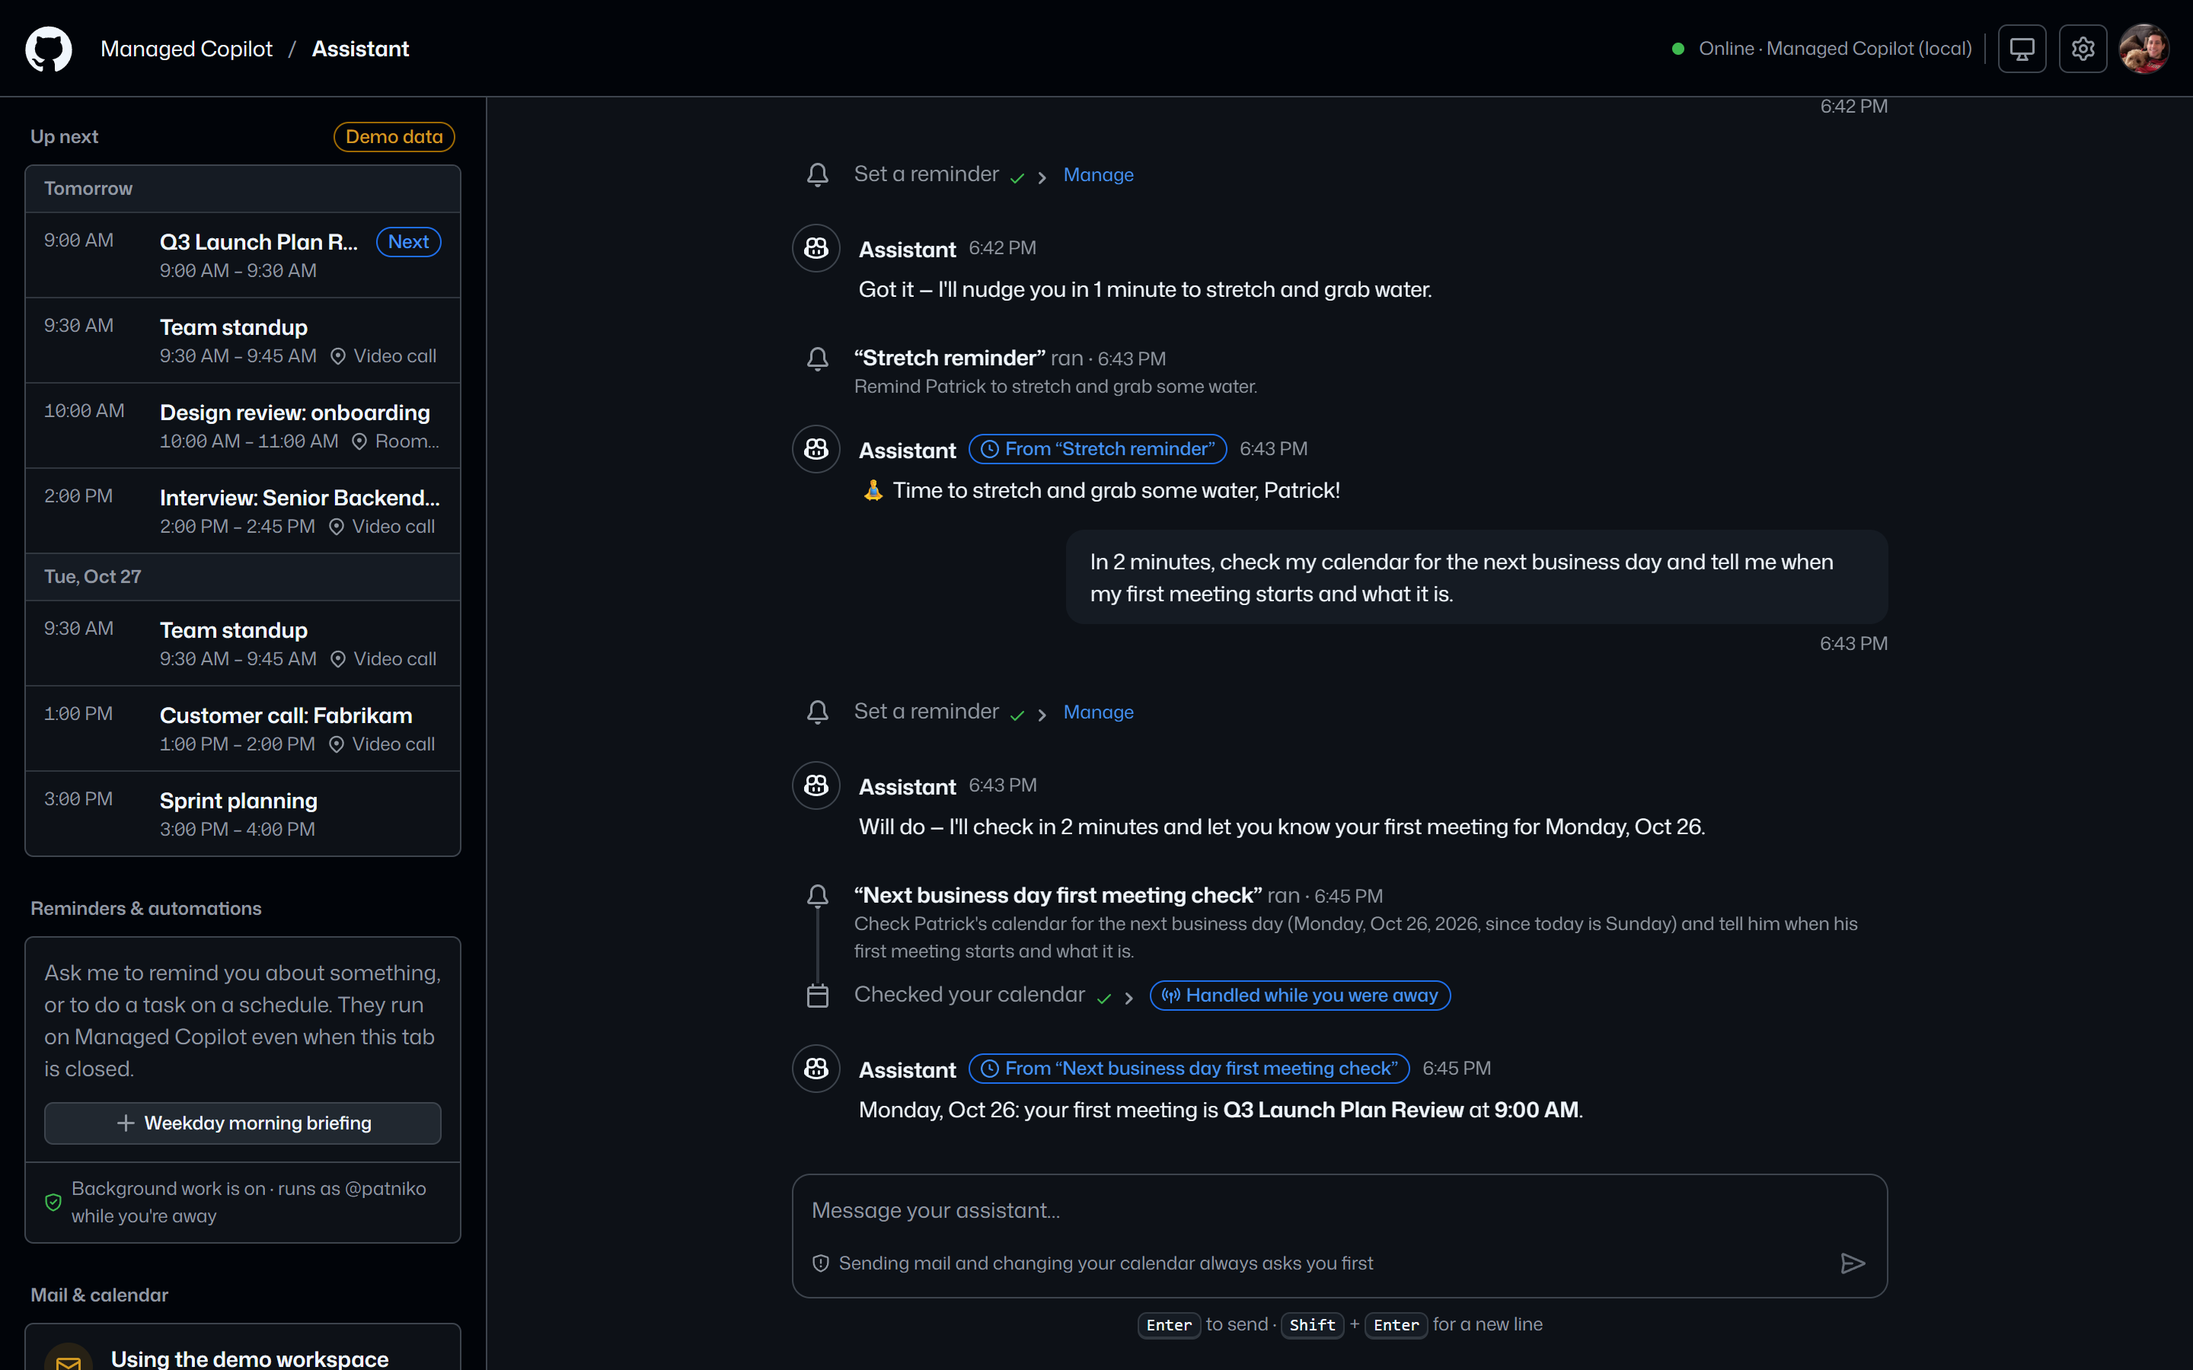
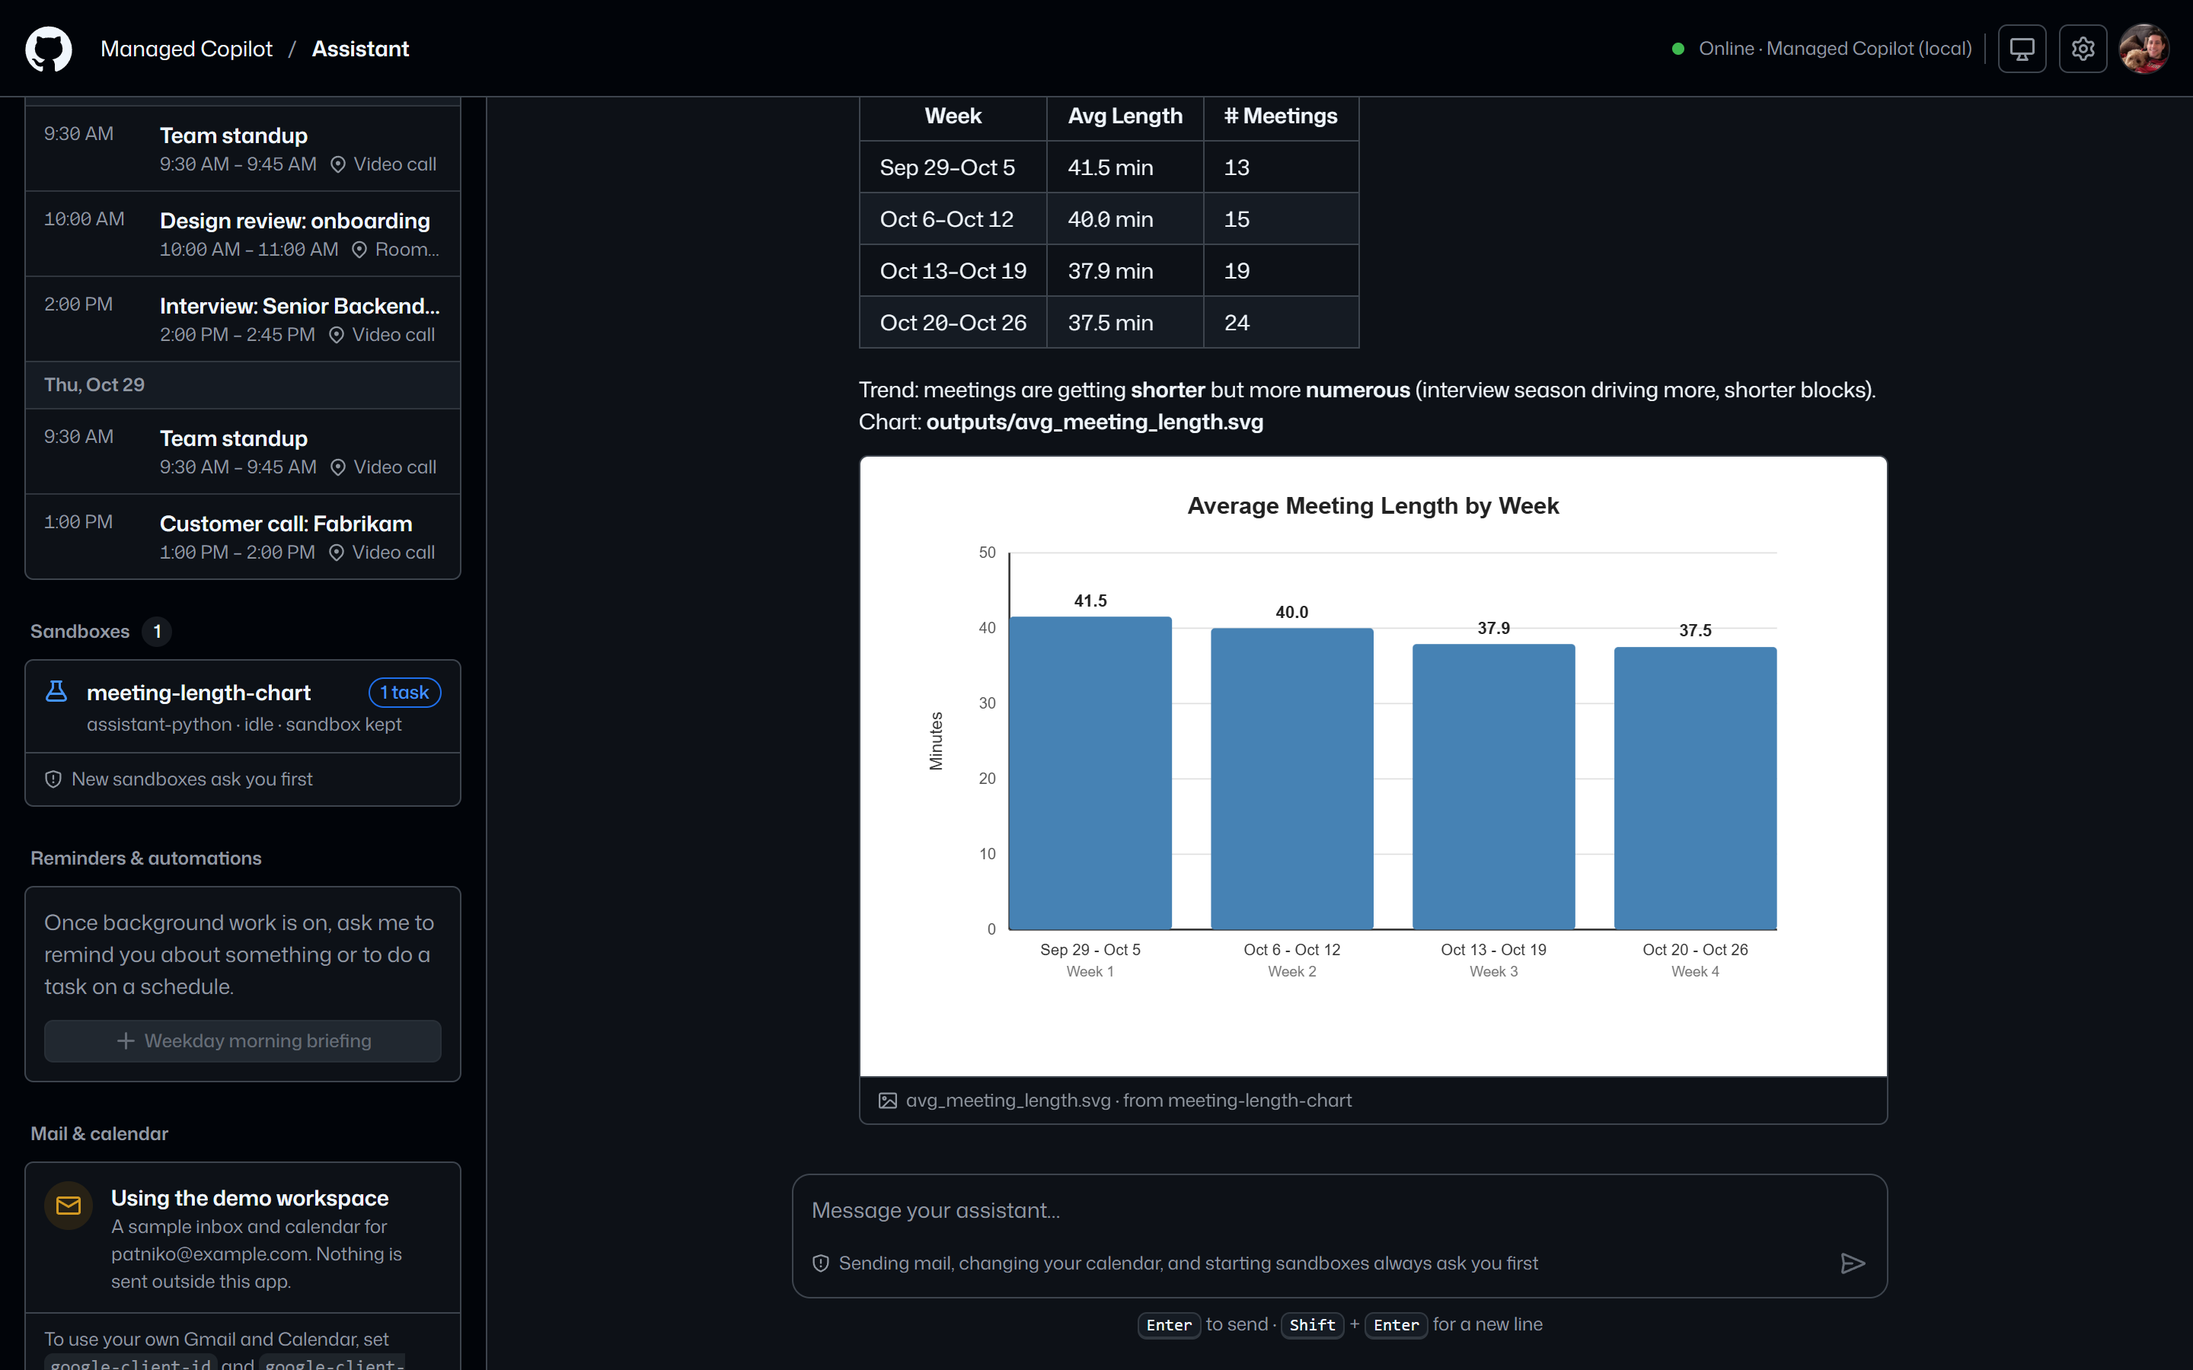
assistant: show a sandbox's images under the reply that answers with them
A question asked while a sandbox works (sent with mode immediate) starts a new
segment of the chat, so attaching images to the last reply of the turn that
started the sandbox missed the final answer (seen live). Each image now goes
under the first reply written after it was published that names the file,
else the first reply written after it was published; replies written while the
sandbox worked never take it. Dark and mobile screenshots from that live run.

The scripted path opens the app while an earlier turn may still be running.

Changed region(s): [[0.3438, 0.0622, 0.875, 0.84], [0.0, 0.0622, 0.2188, 1.0], [0.4375, 0.9022, 0.6875, 0.9333]]

diff --git a/demos/assistant/test/sandbox-cards.test.ts b/demos/assistant/test/sandbox-cards.test.ts
@@ -1,6 +1,6 @@
 import { describe, expect, it } from "vitest";
 import type { ApprovalItem, AssistantItem, SandboxesView, SandboxOutputView, SandboxWorkerView, TimelineItem, UserItem, WorkerItem } from "../src/shared/protocol.js";
-import { formatElapsed, sandboxCardStates } from "../src/web/src/sandboxCards.js";
+import { formatElapsed, replyImages, sandboxCardStates } from "../src/web/src/sandboxCards.js";
 import { buildBlocks, type Block } from "../src/web/src/timelineBlocks.js";
 
 const T0 = Date.parse("2027-01-15T22:00:00Z");
@@ -96,14 +96,13 @@ describe("sandboxCardStates", () => {
   });
 });
 
-/** A compact picture of the blocks, like ["user:u1", "worker:c1", "assistant:a1+c1"]. */
+/** A compact picture of the blocks, like ["user:u1", "worker:c1(approved)", "assistant:a1"]. */
 function shape(blocks: readonly Block[]): string[] {
   return blocks
     .filter((block) => block.type === "item" || block.type === "unread")
     .map((block) => {
       if (block.type !== "item") return "unread";
-      const extra = block.item.kind === "assistant" && block.sandboxCards ? `+${block.sandboxCards.map((entry) => entry.id).join(",")}` : block.item.kind === "worker" && block.approval ? `(approved)` : "";
-      return `${block.item.kind}:${block.item.id}${extra}`;
+      return `${block.item.kind}:${block.item.id}${block.item.kind === "worker" && block.approval ? "(approved)" : ""}`;
     });
 }
 
@@ -111,19 +110,47 @@ describe("buildBlocks with sandboxes", () => {
   const build = (items: TimelineItem[], unreadAnchor?: string) => shape(buildBlocks(items, "America/Los_Angeles", unreadAnchor, new Date(T0)));
 
   it("shows an approved sandbox as its card, and one waiting for approval as the approval", () => {
-    expect(build([user("u1", 0), card("c1", 1), approval("c1", 2, "approved"), reply("a1", 30)])).toEqual(["user:u1", "worker:c1(approved)", "assistant:a1+c1"]);
+    expect(build([user("u1", 0), card("c1", 1), approval("c1", 2, "approved"), reply("a1", 30)])).toEqual(["user:u1", "worker:c1(approved)", "assistant:a1"]);
     expect(build([user("u1", 0), card("c1", 1, { status: "running", endedAt: undefined }), approval("c1", 2, "pending")])).toEqual(["user:u1", "approval:approval:c1"]);
     expect(build([user("u1", 0), card("c1", 1, { status: "failed" }), approval("c1", 2, "denied"), reply("a1", 5)])).toEqual(["user:u1", "approval:approval:c1", "assistant:a1"]);
   });
 
-  it("puts a turn's sandbox images under its last reply only", () => {
-    const followUp = card("c2", 41, { action: "message" });
-    expect(
-      build([user("u1", 0), reply("a0", 1), card("c1", 2), approval("c1", 3, "approved"), reply("a1", 30), reply("a2", 31), user("u2", 40), followUp, reply("a3", 60), user("u3", 70), reply("a4", 71)]),
-    ).toEqual(["user:u1", "assistant:a0", "worker:c1(approved)", "assistant:a1", "assistant:a2+c1", "user:u2", "worker:c2", "assistant:a3+c2", "user:u3", "assistant:a4"]);
+  it("keeps the unread divider when its item is shown as a sandbox card", () => {
+    expect(build([user("u1", 0), card("c1", 1), approval("c1", 2, "approved"), reply("a1", 30)], "approval:c1")).toEqual(["user:u1", "worker:c1(approved)", "unread", "assistant:a1"]);
+  });
+});
+
+describe("replyImages", () => {
+  const named = (id: string, seconds: number, text: string): AssistantItem => ({ ...reply(id, seconds), text });
+  const images = (items: TimelineItem[], workers: SandboxWorkerView[]) => {
+    const found = replyImages(items, sandboxCardStates(items, view(workers)));
+    return Object.fromEntries([...found].map(([replyId, list]) => [replyId, list.map((image) => `${image.output.path}@${image.worker}`)]));
+  };
+
+  it("puts a chart under the reply that answers with it", () => {
+    const items = [user("u1", 0), named("a0", 1, "Starting a sandbox for meetings.svg."), card("c1", 2), approval("c1", 3, "approved"), named("a1", 31, "Here it is: meetings.svg")];
+    expect(images(items, [sandbox({ outputs: [output("o1", "outputs/meetings.svg", 29)] })])).toEqual({ a1: ["outputs/meetings.svg@meeting-stats"] });
   });
 
-  it("keeps the unread divider when its item is shown as a sandbox card", () => {
-    expect(build([user("u1", 0), card("c1", 1), approval("c1", 2, "approved"), reply("a1", 30)], "approval:c1")).toEqual(["user:u1", "worker:c1(approved)", "unread", "assistant:a1+c1"]);
+  it("skips replies to questions asked while the sandbox worked", () => {
+    const items = [
+      user("u1", 0),
+      card("c1", 2),
+      approval("c1", 3, "approved"),
+      user("u2", 10),
+      named("a1", 12, "Your first meeting tomorrow is at 9:30."),
+      named("a2", 40, "Done: your first meeting tomorrow is the standup."),
+      named("a3", 41, "The chart is meetings.svg."),
+    ];
+    expect(images(items, [sandbox({ outputs: [output("o1", "meetings.svg", 30)] })])).toEqual({ a3: ["meetings.svg@meeting-stats"] });
+    // Without a reply naming it, the first reply written after it was published.
+    expect(images(items.slice(0, 6), [sandbox({ outputs: [output("o1", "meetings.svg", 30)] })])).toEqual({ a2: ["meetings.svg@meeting-stats"] });
+  });
+
+  it("shows each image once, and an undated image under the reply that names it", () => {
+    const followUp = card("c2", 50, { action: "message" });
+    const items = [user("u1", 0), card("c1", 2), named("a1", 31, "See meetings.svg"), user("u2", 49), followUp, named("a2", 70, "Next to meetings.svg, here is by-type.svg")];
+    const outputs = [output("o1", "meetings.svg", 29), output("o2", "by-type.svg")];
+    expect(images(items, [sandbox({ messages: 2, outputs })])).toEqual({ a1: ["meetings.svg@meeting-stats"], a2: ["by-type.svg@meeting-stats"] });
   });
 });

diff --git a/demos/assistant/src/web/src/timelineBlocks.ts b/demos/assistant/src/web/src/timelineBlocks.ts
@@ -22,8 +22,6 @@ export type Block =
       outcome?: ToolItem;
       /** A sandbox card: the person's approval that started the sandbox. */
       approval?: ApprovalItem;
-      /** A turn's last reply: the sandbox cards before it in that turn, whose images show under it. */
-      sandboxCards?: WorkerItem[];
     }
   | { type: "run"; key: string; items: RunItem[] };
 
@@ -40,8 +38,7 @@ function isRunItem(item: TimelineItem): item is RunItem {
  * - a proactive reply labeled with the schedule whose trigger started it (the label clears at the person's next message);
  * - an approved call's tool progress attached to its approval card (tool `<id>` ↔ approval `approval:<id>`), not in a run;
  * - a sandbox the person approved shown as its card, carrying that approval; one waiting for (or refused) approval
- *   shown as its approval card;
- * - each turn's last reply carrying the sandbox cards before it, so their images show under the answer.
+ *   shown as its approval card.
  */
 export function buildBlocks(items: readonly TimelineItem[], timeZone: string, unreadAnchor: string | undefined, now: Date = new Date()): Block[] {
   const blocks: Block[] = [];
@@ -64,22 +61,6 @@ export function buildBlocks(items: readonly TimelineItem[], timeZone: string, un
   const startApprovals = new Set([...approvedBy.values()].map((approval) => approval.id));
   const hidden = (item: TimelineItem) =>
     (item.kind === "tool" && outcomes.has(`approval:${item.id}`)) || (item.kind === "worker" && asApproval.has(item.id)) || (item.kind === "approval" && startApprovals.has(item.id));
-
-  // Each turn's last reply shows the images of the sandbox cards before it in that turn.
-  const replyCards = new Map<string, WorkerItem[]>();
-  let turnCards: WorkerItem[] = [];
-  let lastReply: { id: string; cards: WorkerItem[] } | undefined;
-  const endTurn = () => {
-    if (lastReply && lastReply.cards.length > 0) replyCards.set(lastReply.id, lastReply.cards);
-    turnCards = [];
-    lastReply = undefined;
-  };
-  for (const item of items) {
-    if (item.kind === "user" || item.kind === "trigger") endTurn();
-    else if (item.kind === "worker" && item.status === "succeeded" && !hidden(item)) turnCards.push(item);
-    else if (item.kind === "assistant") lastReply = { id: item.id, cards: [...turnCards] };
-  }
-  endTurn();
 
   let lastDay: string | undefined;
   let run: RunItem[] | undefined;
@@ -120,7 +101,6 @@ export function buildBlocks(items: readonly TimelineItem[], timeZone: string, un
       scheduleLabel: item.kind === "assistant" && item.proactive ? scheduleLabel : undefined,
       outcome: item.kind === "approval" ? outcomes.get(item.id) : undefined,
       approval: item.kind === "worker" ? approvedBy.get(item.id) : undefined,
-      sandboxCards: item.kind === "assistant" ? replyCards.get(item.id) : undefined,
     });
   }
   flush();

diff --git a/demos/assistant/src/web/src/sandboxCards.ts b/demos/assistant/src/web/src/sandboxCards.ts
@@ -3,7 +3,7 @@
  * the sandbox's live state, timing, and outputs (`SandboxesView`, from the platform). Pure, so it is unit tested on its
  * own (test/sandbox-cards.test.ts).
  */
-import type { SandboxEnvironmentView, SandboxesView, SandboxOutputView, SandboxWorkerView, TimelineItem, WorkerItem } from "../../shared/protocol";
+import type { AssistantItem, SandboxEnvironmentView, SandboxesView, SandboxOutputView, SandboxWorkerView, TimelineItem, WorkerItem } from "../../shared/protocol";
 
 export type CardPhase =
   /** The tool call is still running (for a start: just after it was approved). */
@@ -93,4 +93,42 @@ export function formatElapsed(ms: number): string {
   const minutes = Math.floor((total % 3600) / 60);
   const seconds = String(total % 60).padStart(2, "0");
   return hours > 0 ? `${hours}:${String(minutes).padStart(2, "0")}:${seconds}` : `${minutes}:${seconds}`;
+}
+
+/** An image a sandbox published, shown under a reply. */
+export interface ReplyImage {
+  readonly output: SandboxOutputView;
+  /** The sandbox's name. */
+  readonly worker: string;
+}
+
+function fileName(path: string): string {
+  return path.split("/").pop() || path;
+}
+
+/**
+ * Which reply each published image shows under: the first reply written after it was published that names the file
+ * (the assistant is told to mention charts by name), else the first reply written after it was published. Replies
+ * written while the sandbox worked (for example to a question asked meanwhile) come before its outputs, so they never
+ * take them. An image without a publication time goes under the first reply after its card that names it. Each image
+ * shows once.
+ */
+export function replyImages(items: readonly TimelineItem[], stateOf: (card: WorkerItem) => CardState): Map<string, ReplyImage[]> {
+  const images = new Map<string, ReplyImage[]>();
+  const shown = new Set<string>();
+  items.forEach((item, index) => {
+    if (item.kind !== "worker" || item.status !== "succeeded") return;
+    const replies = items.slice(index + 1).filter((entry): entry is AssistantItem => entry.kind === "assistant");
+    for (const output of stateOf(item).outputs) {
+      if (!output.image || shown.has(output.id)) continue;
+      const name = fileName(output.path);
+      const published = output.publishedAt ? time(output.publishedAt) - SLACK_MS / 5 : undefined;
+      const after = published === undefined ? [] : replies.filter((reply) => time(reply.at) >= published);
+      const reply = published === undefined ? replies.find((candidate) => candidate.text.includes(name)) : (after.find((candidate) => candidate.text.includes(name)) ?? after[0]);
+      if (!reply) continue;
+      shown.add(output.id);
+      images.set(reply.id, [...(images.get(reply.id) ?? []), { output, worker: item.worker }]);
+    }
+  });
+  return images;
 }

diff --git a/demos/assistant/src/web/src/components/Timeline.tsx b/demos/assistant/src/web/src/components/Timeline.tsx
@@ -1,7 +1,7 @@
 import { ArrowDownIcon } from "@primer/octicons-react";
 import { useEffect, useLayoutEffect, useMemo, useRef, useState, type ReactNode } from "react";
 import type { SandboxesView, TimelineItem } from "../../../shared/protocol";
-import { sandboxCardStates } from "../sandboxCards";
+import { replyImages, sandboxCardStates } from "../sandboxCards";
 import { buildBlocks } from "../timelineBlocks";
 import type { PendingMessage } from "../useAssistant";
 import { ApprovalCard } from "./ApprovalCard";
@@ -50,6 +50,7 @@ export function Timeline(props: TimelineProps) {
   const anchoredTo = useRef<string | undefined>(undefined);
   const blocks = useMemo(() => buildBlocks(items, timeZone, unreadAnchor), [items, timeZone, unreadAnchor]);
   const stateOf = useMemo(() => sandboxCardStates(items, props.sandboxes), [items, props.sandboxes]);
+  const images = useMemo(() => replyImages(items, stateOf), [items, stateOf]);
   const lastItem = items[items.length - 1];
   const streamingText = lastItem?.kind === "assistant" ? lastItem.text.length : 0;
   // While a sandbox of this turn works, its card shows the progress (the assistant is only waiting for it).
@@ -161,7 +162,7 @@ export function Timeline(props: TimelineProps) {
                     case "assistant":
                       return (
                         <AssistantMessage key={block.key} item={item} timeZone={timeZone} scheduleLabel={block.scheduleLabel}>
-                          {block.sandboxCards && <SandboxImages cards={block.sandboxCards} stateOf={stateOf} />}
+                          <SandboxImages images={images.get(item.id) ?? []} />
                         </AssistantMessage>
                       );
                     case "notice":

diff --git a/demos/assistant/src/web/src/components/Sandbox.tsx b/demos/assistant/src/web/src/components/Sandbox.tsx
@@ -15,7 +15,7 @@ import {
 import { useEffect, useId, useState } from "react";
 import type { ApprovalItem, SandboxKind, SandboxOutputView, WorkerItem } from "../../../shared/protocol";
 import { timeOf } from "../format";
-import { formatElapsed, type CardState } from "../sandboxCards";
+import { formatElapsed, type CardState, type ReplyImage } from "../sandboxCards";
 import { cx, Spinner } from "./ui";
 
 export const SANDBOX_ICONS: Record<SandboxKind, Icon> = { python: BeakerIcon, web: GlobeIcon, general: ContainerIcon };
@@ -245,17 +245,8 @@ function SandboxImage({ output, worker }: { output: SandboxOutputView; worker: s
   );
 }
 
-/** The images a turn's sandboxes published, under the reply that answers with them. */
-export function SandboxImages({ cards, stateOf }: { cards: readonly WorkerItem[]; stateOf(card: WorkerItem): CardState }) {
-  const seen = new Set<string>();
-  const images: { output: SandboxOutputView; worker: string }[] = [];
-  for (const card of cards) {
-    for (const output of stateOf(card).outputs) {
-      if (!output.image || seen.has(output.id)) continue;
-      seen.add(output.id);
-      images.push({ output, worker: card.worker });
-    }
-  }
+/** The images sandboxes published, under the reply that answers with them (`replyImages` picks the reply). */
+export function SandboxImages({ images }: { images: readonly ReplyImage[] }) {
   if (images.length === 0) return null;
   return (
     <div className="mt-3 flex flex-col gap-3">

diff --git a/demos/assistant/scripts/happy-path.ts b/demos/assistant/scripts/happy-path.ts
@@ -257,7 +257,8 @@ async function main(): Promise<void> {
   const browser = await chromium.launch({ channel: "msedge", headless: !flag("headed") });
   try {
     step(`Opening ${url}`);
-    let { context, page } = await open(browser);
+    // The conversation may still be busy from an earlier run (for example, a sandbox waiting for approval).
+    let { context, page } = await open(browser, { busy: true });
     ok("assistant is online");
 
     if (flag("fresh")) {
